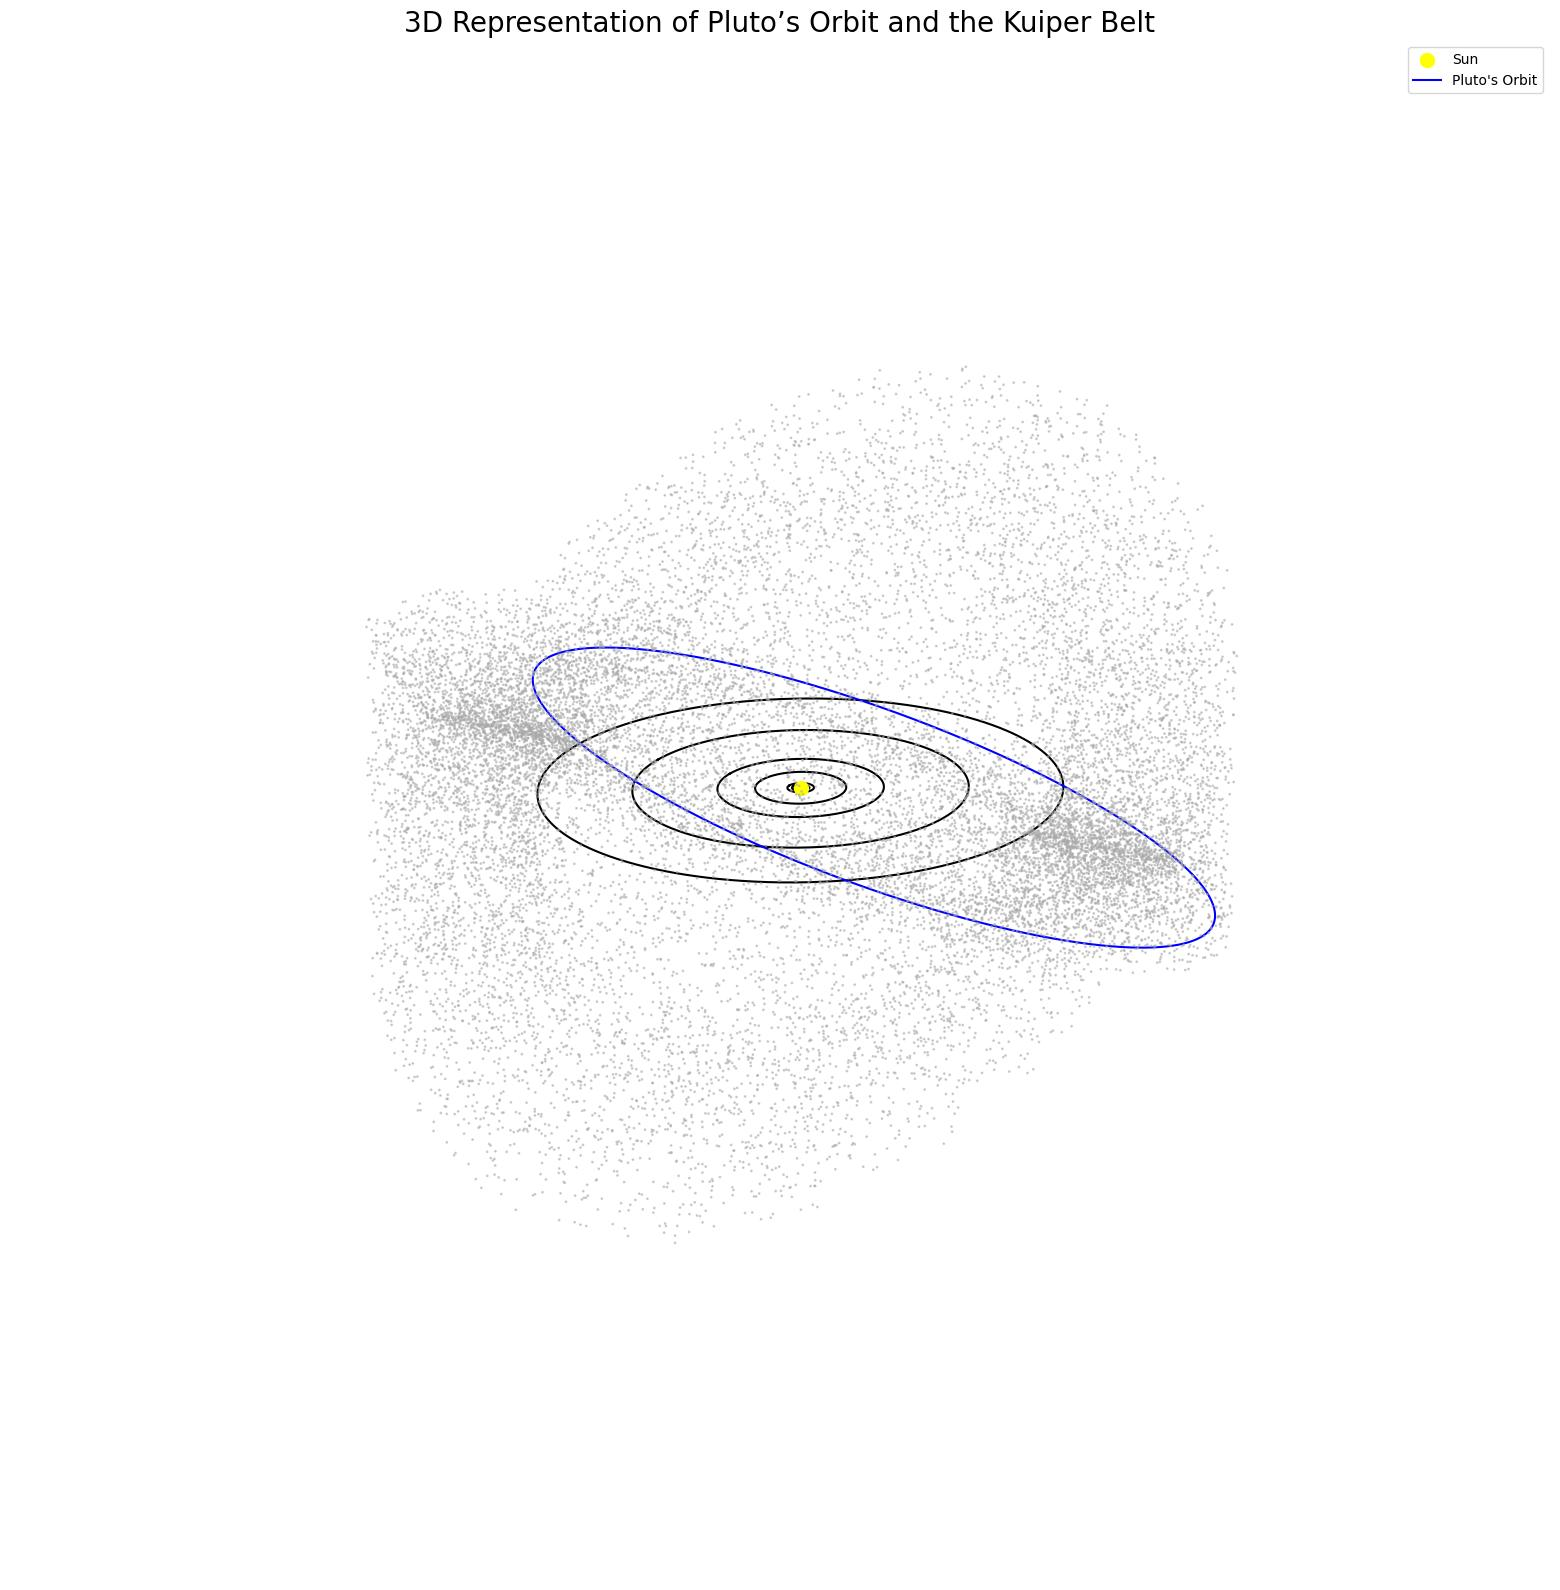
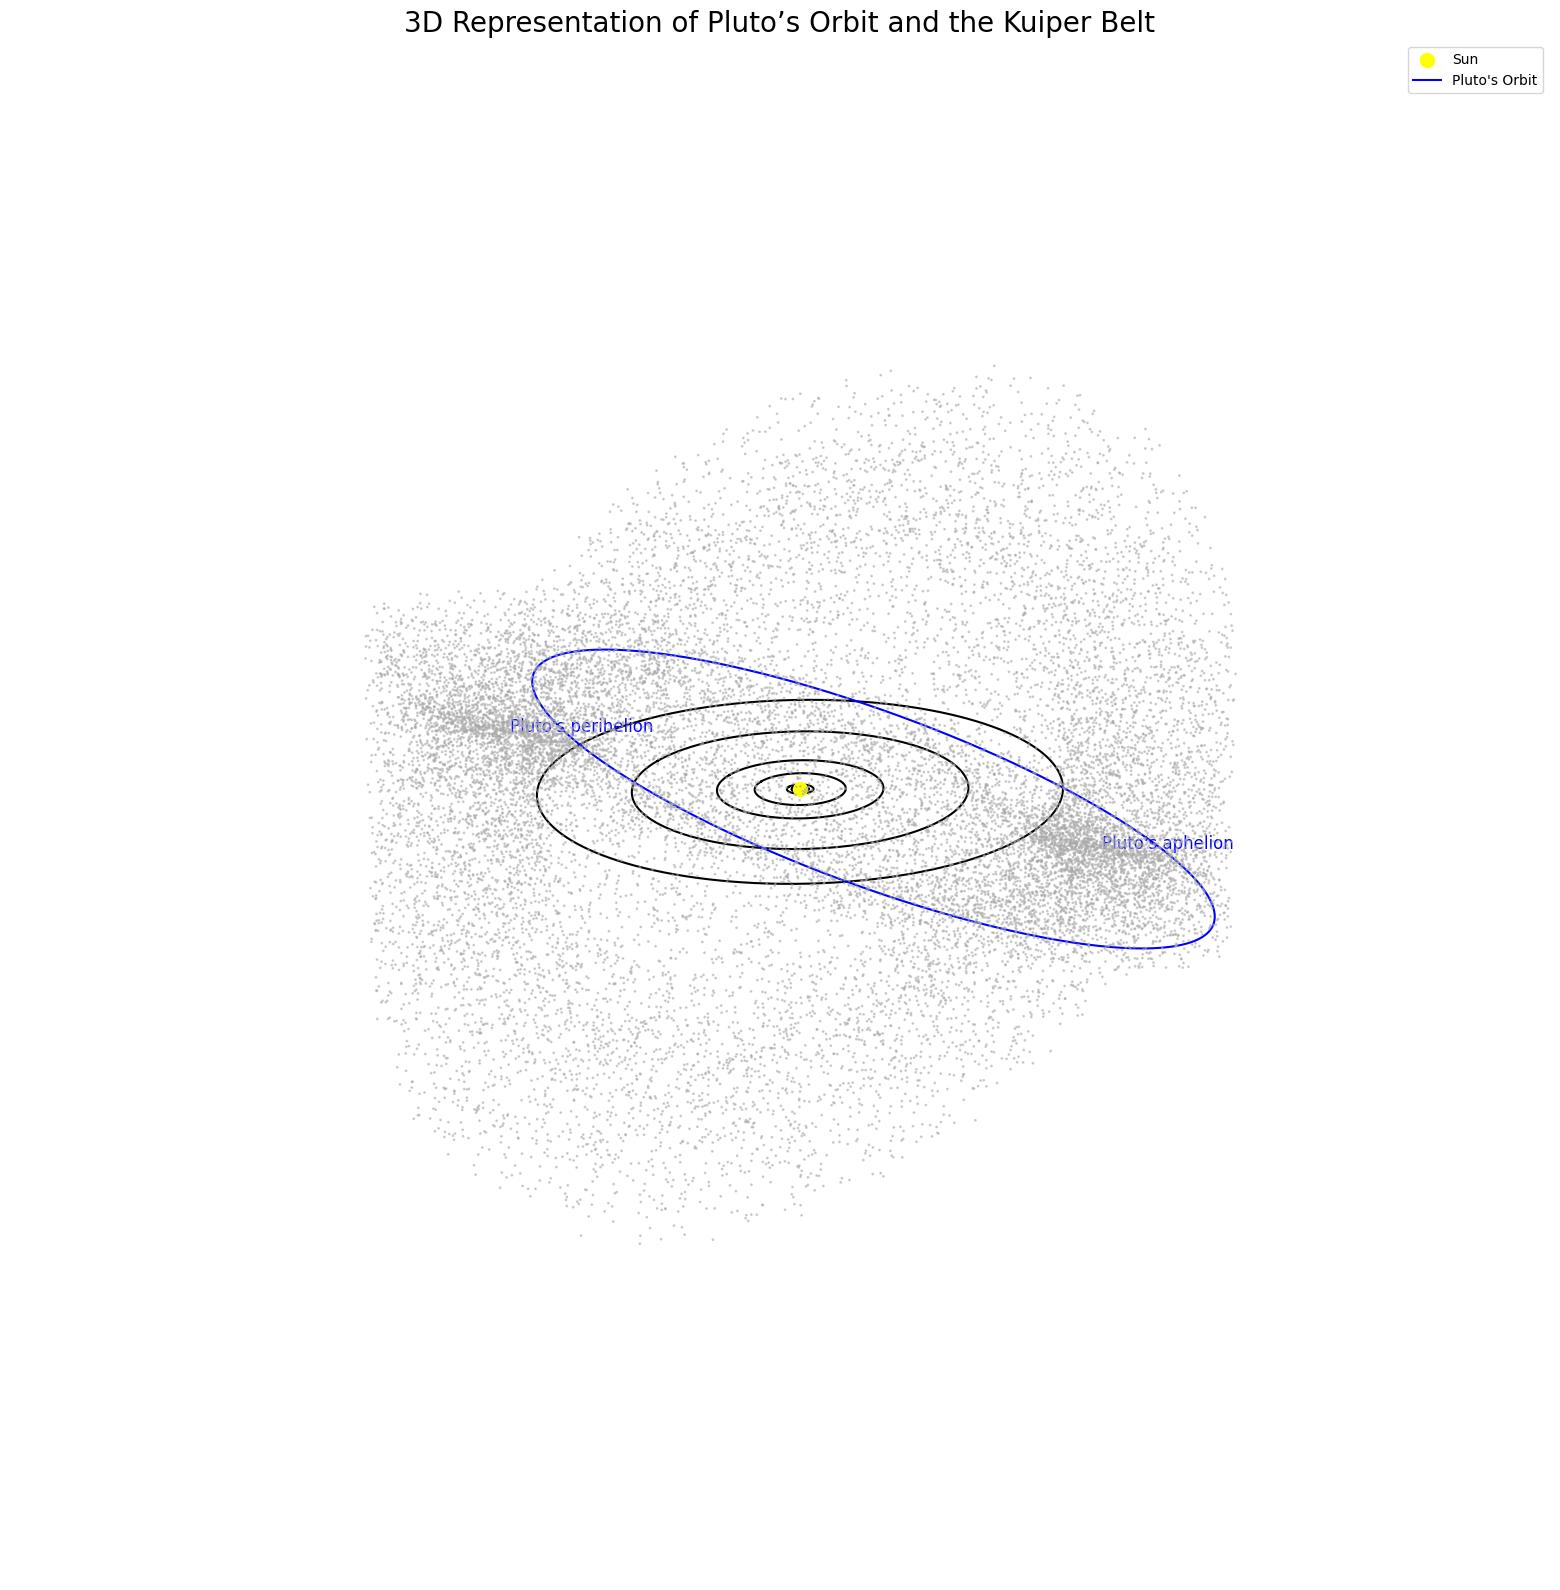
add annotations to 3d model

Changed region(s): [[0.2462, 0.2465, 0.8, 0.7396]]

diff --git a/pluto_orbit.py b/pluto_orbit.py
@@ -1,16 +1,6 @@
 import numpy as np
 import matplotlib.pyplot as plt
-
-# Constants for the orbits and labels
-ORBIT_POINTS = 1000  # Number of points to plot for each orbit
-PLANET_ORBITS = [0.39, 0.72, 1.0, 1.52, 5.2, 9.5, 19.2, 30]  # Semi-major axes of the planets in AU
-PLUTO_PERIHELION = 29.7  # Pluto's closest point to the Sun in AU
-PLUTO_APHELION = 49.5  # Pluto's farthest point from the Sun in AU
-PLUTO_ECCENTRICITY = 0.25  # Pluto's orbital eccentricity
-PLUTO_SEMI_MAJOR_AXIS = (PLUTO_PERIHELION + PLUTO_APHELION) / 2  # Semi-major axis of Pluto's orbit
-KUIPER_BELT_INNER = 30  # Inner edge of the Kuiper Belt in AU
-KUIPER_BELT_OUTER = 50  # Outer edge of the Kuiper Belt in AU
-KUIPER_BELT_POINTS = 20000  # Number of points to represent the Kuiper Belt
+from mpl_toolkits.mplot3d import Axes3D
 
 def calculate_ellipse(eccentricity, semi_major_axis, theta):
     """
@@ -22,48 +12,74 @@ def calculate_ellipse(eccentricity, semi_major_axis, theta):
     y = r * np.sin(theta)
     return x, y
 
+def calculate_3d_ellipse(eccentricity, semi_major_axis, theta, inclination):
+    """
+    Calculate the x, y, z coordinates of an inclined ellipse based on eccentricity,
+    semi-major axis, and inclination.
+    """
+    b = semi_major_axis * np.sqrt(1 - eccentricity**2)
+    r = (semi_major_axis * (1 - eccentricity**2)) / (1 + eccentricity * np.cos(theta))
+    x = r * np.cos(theta)
+    y = r * np.sin(theta) * np.cos(inclination)
+    z = r * np.sin(theta) * np.sin(inclination)
+    return x, y, z
+
+def calculate_3d_kuiper_belt(inner_radius, outer_radius, num_points, inclination):
+    """
+    Generate random 3D coordinates for the Kuiper Belt points within a torus shape.
+    """
+    radii = np.random.uniform(inner_radius, outer_radius, num_points)
+    theta = np.random.uniform(0, 2 * np.pi, num_points)
+    phi = np.random.uniform(0, 2 * np.pi, num_points)
+    
+    x = radii * np.cos(theta)
+    y = radii * np.sin(theta) * np.cos(inclination)
+    z = radii * np.sin(theta) * np.sin(inclination) * np.sin(phi)
+    
+    return x, y, z
+
+# Constants
+ORBIT_POINTS = 1000
+PLANET_ORBITS = [0.39, 0.72, 1.0, 1.52, 5.2, 9.5, 19.2, 30]
+PLUTO_ECCENTRICITY = 0.25
+PLUTO_SEMI_MAJOR_AXIS = 39.5  # Average distance in AU
+PLUTO_INCLINATION = np.radians(17)
+KUIPER_BELT_INNER = 30
+KUIPER_BELT_OUTER = 50
+KUIPER_BELT_POINTS = 20000
+
 theta = np.linspace(0, 2 * np.pi, ORBIT_POINTS)
-x, y = calculate_ellipse(PLUTO_ECCENTRICITY, PLUTO_SEMI_MAJOR_AXIS, theta)
 
-kuiper_belt_r = np.random.uniform(KUIPER_BELT_INNER, KUIPER_BELT_OUTER, KUIPER_BELT_POINTS)
-kuiper_belt_theta = np.random.uniform(0, 2 * np.pi, KUIPER_BELT_POINTS)
-kuiper_belt_x = kuiper_belt_r * np.cos(kuiper_belt_theta)
-kuiper_belt_y = kuiper_belt_r * np.sin(kuiper_belt_theta)
+# Generate the 3D orbit of Pluto and Kuiper Belt
+x, y, z = calculate_3d_ellipse(PLUTO_ECCENTRICITY, PLUTO_SEMI_MAJOR_AXIS, theta, PLUTO_INCLINATION)
+kuiper_belt_x, kuiper_belt_y, kuiper_belt_z = calculate_3d_kuiper_belt(KUIPER_BELT_INNER, KUIPER_BELT_OUTER, KUIPER_BELT_POINTS, PLUTO_INCLINATION)
 
-fig, ax = plt.subplots(figsize=(39, 39))
+# Define viewing angles
+view_angles = [
+    (90, 0),  # top-down view
+    (45, 300),  # elevation and azimuth
+    (30, 210),  # elevation and azimuth
+    (20, 120)  # elevation and azimuth
+]
 
-# Plot the Sun at the center
-sun = plt.Circle((0, 0), 0.05, color='yellow', fill=True)
-ax.add_artist(sun)
-
-# Plot the orbits of the major planets
-for orbit in PLANET_ORBITS:
-    circle = plt.Circle((0, 0), orbit, color='black', fill=False)
-    ax.add_artist(circle)
-
-# Plot the elliptical orbit of Pluto
-ax.plot(x, y, color='blue')
-
-# Scatter the adjusted points for the Kuiper Belt
-ax.scatter(kuiper_belt_x, kuiper_belt_y, color='gray', s=5)
-
-# Mark the perihelion and aphelion of Pluto's orbit
-ax.plot(PLUTO_PERIHELION, 0, 'bo')  # Perihelion
-ax.plot(-PLUTO_APHELION, 0, 'bo')  # Aphelion
-
-# Annotations and labels with increased font size
-font_size = 48
-ax.annotate('Kuiper Belt', xy=(KUIPER_BELT_OUTER, 0), xytext=(KUIPER_BELT_OUTER+5, 10),
-            arrowprops=dict(facecolor='black', shrink=0.05), fontsize=font_size)
-ax.annotate("Pluto's aphelion (49.5 AU)", xy=(-PLUTO_APHELION, 0), xytext=(-PLUTO_APHELION-25, 10),
-            arrowprops=dict(facecolor='black', shrink=0.05), fontsize=font_size)
-ax.annotate("Pluto's perihelion (29.7 AU)", xy=(PLUTO_PERIHELION, 0), xytext=(PLUTO_PERIHELION+10, -10),
-            arrowprops=dict(facecolor='black', shrink=0.05), fontsize=font_size)
-
-ax.set_xlim([-70, 70])
-ax.set_ylim([-70, 70])
-ax.set_aspect('equal', 'box')
-ax.axis('off')
-plt.title('Relationship of Pluto’s orbit to the Kuiper Belt', fontsize=62)
-plt.savefig("pluto_orbit.jpg", dpi=300)
-#plt.show()
+# Loop through each view angle to plot and save the figure
+for angle in view_angles:
+    fig = plt.figure(figsize=(20, 20))
+    ax = fig.add_subplot(111, projection='3d')
+    ax.scatter(0, 0, 0, color='yellow', s=100, label='Sun')  # Sun
+    for orbit in PLANET_ORBITS:
+        circle_x, circle_y = calculate_ellipse(0, orbit, theta)  # Planets' orbits
+        ax.plot(circle_x, circle_y, 0, color='black')
+    ax.plot(x, y, z, color='blue', label="Pluto's Orbit")  # Pluto's orbit
+    ax.scatter(kuiper_belt_x, kuiper_belt_y, kuiper_belt_z, color='darkgray', s=1, alpha=0.5)  # Kuiper Belt
+    ax.text(-PLUTO_SEMI_MAJOR_AXIS, 0, 0, "Pluto's aphelion", color='blue', fontsize=12)
+    ax.text(PLUTO_SEMI_MAJOR_AXIS, 0, 0, "Pluto's perihelion", color='blue', fontsize=12)
+    ax.set_xlabel('X (AU)')
+    ax.set_ylabel('Y (AU)')
+    ax.set_zlabel('Z (AU)')
+    ax.view_init(elev=angle[0], azim=angle[1])
+    ax.set_title('3D Representation of Pluto’s Orbit and the Kuiper Belt', fontsize=20)
+    ax.legend()
+    plt.axis('off')  # Removes the axes for a cleaner look
+    plt.savefig(f"pluto_orbit_3d_view_{angle[0]}_{angle[1]}.jpg", bbox_inches='tight')
+    plt.close()  # Close the plot to free memory

diff --git a/README.md b/README.md
@@ -143,7 +143,7 @@ The following images provide different perspectives on Pluto's orbit and the Kui
 
 | Top-Down View | 45° Elevation, 300° Azimuth |
 |---------------|-----------------------------|
-| ![Top-Down View](https://github.com/ThomasAFink/visualization_of_plutos_orbit_and_the_kuiper_belt/blob/main/pluto_orbit_3d_top_down_view.jpg?raw=true) | ![45° Elevation, 300° Azimuth](https://github.com/ThomasAFink/visualization_of_plutos_orbit_and_the_kuiper_belt/blob/main/pluto_orbit_3d_view_45_300.jpg?raw=true) |
+| ![Top-Down View](https://github.com/ThomasAFink/visualization_of_plutos_orbit_and_the_kuiper_belt/blob/main/pluto_orbit_3d_view_90_0.jpg?raw=true) | ![45° Elevation, 300° Azimuth](https://github.com/ThomasAFink/visualization_of_plutos_orbit_and_the_kuiper_belt/blob/main/pluto_orbit_3d_view_45_300.jpg?raw=true) |
 
 | 30° Elevation, 210° Azimuth | 20° Elevation, 120° Azimuth |
 |-----------------------------|-----------------------------|
